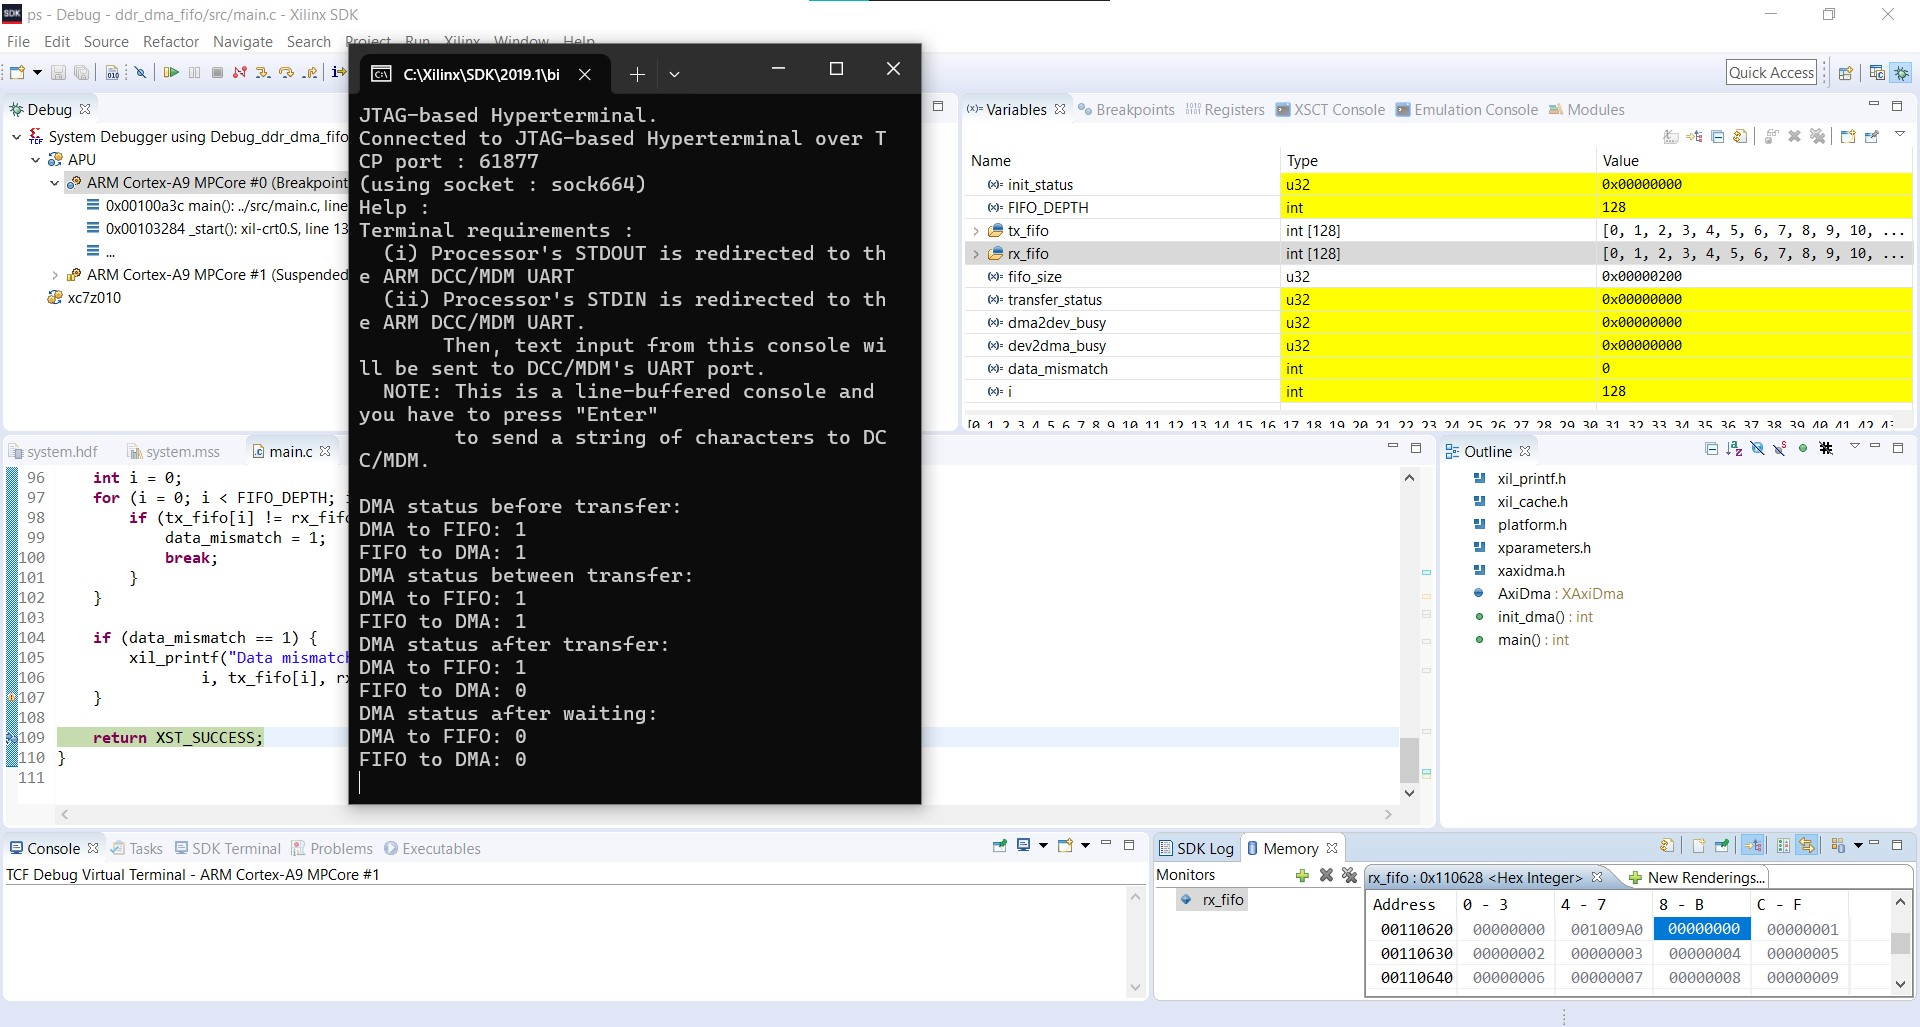
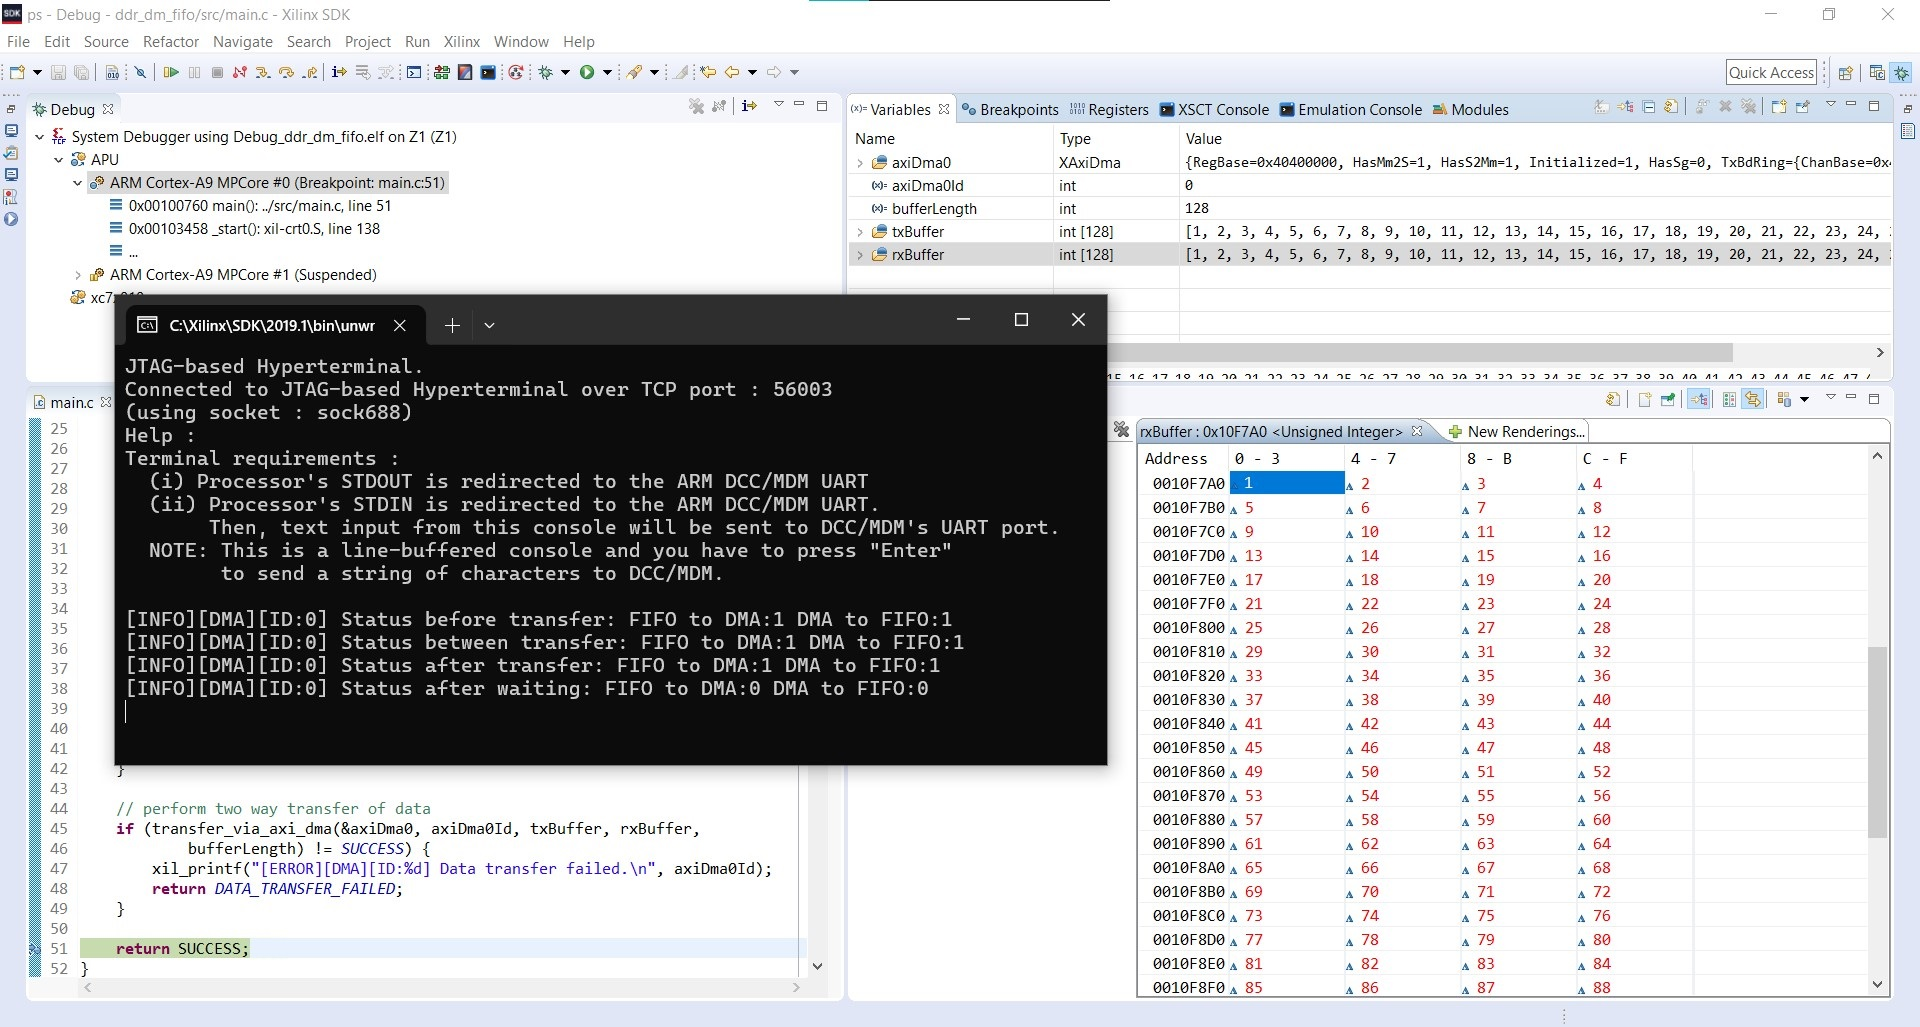
fix lab10 submit transfer request order

diff --git a/lab10_dma/ps/ddr_dm_fifo/src/main.c b/lab10_dma/ps/ddr_dm_fifo/src/main.c
@@ -5,111 +5,160 @@
 #include "xaxidma.h"
 #include "sleep.h"
 
-XAxiDma AxiDma;
+enum AppErrCode {
+	SUCCESS,
+	DEVICE_NOT_FOUND,
+	DMA_CONFIG_INIT_FAILED,
+	DMA_IN_SG_MODE,
+	DMA_INIT_FAILED,
+	DMA_TO_DEVICE_FAILED,
+	DEVICE_TO_DMA_FAILED,
+	DATA_MISMATCH,
+	DATA_TRANSFER_FAILED
+};
 
-int init_dma() {
-	u32 device_id = XPAR_AXI_DMA_0_DEVICE_ID;
-
-	XAxiDma_Config *DmaConfig = XAxiDma_LookupConfig(device_id);
-	if (!DmaConfig) {
-		xil_printf("No config found.\n");
-		return XST_FAILURE;
-	}
-
-	int config_status = XAxiDma_CfgInitialize(&AxiDma, DmaConfig);
-	if (config_status != XST_SUCCESS) {
-		xil_printf("Init failed. Config status: %d.\n", config_status);
-		return XST_FAILURE;
-	}
-
-	if (XAxiDma_HasSg(&AxiDma)) {
-		xil_printf("Configured in SG mode.\n");
-		return XST_FAILURE;
-	}
-
-	return XST_SUCCESS;
-}
+int init_axi_dma(XAxiDma *pAxiDma, int axiDmaId);
+int transfer_via_axi_dma(XAxiDma *pAxiDma, int axiDmaId, int *txBuffer,
+		int *rxBuffer, int bufferLength);
 
 int main() {
-	u32 init_status = init_dma();
-	if (init_status != XST_SUCCESS) {
-		return XST_FAILURE;
+	// initialize dma
+	XAxiDma axiDma0;
+	int axiDma0Id = XPAR_AXI_DMA_0_DEVICE_ID;
+	if (init_axi_dma(&axiDma0, axiDma0Id) != SUCCESS) {
+		xil_printf("[ERROR][DMA][ID:%d] Init failed.\n", axiDma0Id);
+		return DMA_INIT_FAILED;
 	}
 
-	int FIFO_DEPTH = 128;
-	int tx_fifo[FIFO_DEPTH];
-	int rx_fifo[FIFO_DEPTH];
-	u32 fifo_size = sizeof(int) * FIFO_DEPTH;
+	// prepare tx and rx buffers
+	int bufferLength = 128;
+	// buffers in cache
+	int txBuffer[bufferLength];
+	int rxBuffer[bufferLength];
 
-	for (int i = 0; i < FIFO_DEPTH; i++) {
-		tx_fifo[i] = 1 * i + 1;
+	// populate tx buffer
+	for (int i = 0; i < bufferLength; i++) {
+		txBuffer[i] = 1 * i + 1;
 	}
 
-	Xil_DCacheFlushRange((UINTPTR) tx_fifo, fifo_size);
-	Xil_DCacheFlushRange((UINTPTR) rx_fifo, fifo_size);
-
-	xil_printf("DMA status before transfer:\n"
-			"DMA to FIFO: %u\nFIFO to DMA: %u\n",
-			XAxiDma_Busy(&AxiDma, XAXIDMA_DEVICE_TO_DMA),
-			XAxiDma_Busy(&AxiDma, XAXIDMA_DMA_TO_DEVICE));
-
-	u32 transfer_status;
-
-	transfer_status = XAxiDma_SimpleTransfer(&AxiDma, (UINTPTR) tx_fifo,
-			fifo_size, XAXIDMA_DMA_TO_DEVICE);
-	if (transfer_status != XST_SUCCESS) {
-		xil_printf("Transferring data from DDR to FIFO via DMA failed.\n");
+	// perform two way transfer of data
+	if (transfer_via_axi_dma(&axiDma0, axiDma0Id, txBuffer, rxBuffer,
+			bufferLength) != SUCCESS) {
+		xil_printf("[ERROR][DMA][ID:%d] Data transfer failed.\n", axiDma0Id);
+		return DATA_TRANSFER_FAILED;
 	}
 
-	xil_printf("DMA status between transfer:\n"
-			"DMA to FIFO: %u\nFIFO to DMA: %u\n",
-			XAxiDma_Busy(&AxiDma, XAXIDMA_DEVICE_TO_DMA),
-			XAxiDma_Busy(&AxiDma, XAXIDMA_DMA_TO_DEVICE));
+	return SUCCESS;
+}
 
-	transfer_status = XAxiDma_SimpleTransfer(&AxiDma, (UINTPTR) rx_fifo,
-			fifo_size, XAXIDMA_DEVICE_TO_DMA);
-	if (transfer_status != XST_SUCCESS) {
-		xil_printf("Transferring data from FIFO to DDR via DMA failed.\n");
+int init_axi_dma(XAxiDma *pAxiDma, int axiDmaId) {
+	// get dma config
+	XAxiDma_Config *pDmaConfig = XAxiDma_LookupConfig(axiDmaId);
+	if (pDmaConfig == NULL) {
+		xil_printf("[ERROR][DMA][ID:%d] Device not found.\n", axiDmaId);
+		return DEVICE_NOT_FOUND;
 	}
 
-	xil_printf("DMA status after transfer:\n"
-			"DMA to FIFO: %u\nFIFO to DMA: %u\n",
-			XAxiDma_Busy(&AxiDma, XAXIDMA_DEVICE_TO_DMA),
-			XAxiDma_Busy(&AxiDma, XAXIDMA_DMA_TO_DEVICE));
+	// initialize dma config
+	u32 configStatus = XAxiDma_CfgInitialize(pAxiDma, pDmaConfig);
+	if (configStatus != XST_SUCCESS) {
+		xil_printf("[ERROR][DMA][ID:%d] Config init failed with status: %u\n",
+				axiDmaId, configStatus);
+		return DMA_CONFIG_INIT_FAILED;
+	}
 
-	u32 dma2dev_busy = XAxiDma_Busy(&AxiDma, XAXIDMA_DEVICE_TO_DMA);
-	u32 dev2dma_busy = XAxiDma_Busy(&AxiDma, XAXIDMA_DMA_TO_DEVICE);
+	// check if it is in scatter gather mode
+	u32 dmaInSgMode = XAxiDma_HasSg(pAxiDma);
+	if (dmaInSgMode) {
+		xil_printf("[ERROR][DMA][ID:%d] In SG Mode.\n", axiDmaId);
+		return DMA_IN_SG_MODE;
+	}
 
-	while (dma2dev_busy || dev2dma_busy) {
-		dma2dev_busy = XAxiDma_Busy(&AxiDma, XAXIDMA_DEVICE_TO_DMA);
-		dev2dma_busy = XAxiDma_Busy(&AxiDma, XAXIDMA_DMA_TO_DEVICE);
-		xil_printf("DMA status while waiting:\n"
-				"DMA to FIFO: %u\nFIFO to DMA: %u\n", dma2dev_busy,
-				dev2dma_busy);
+	return SUCCESS;
+}
+
+int transfer_via_axi_dma(XAxiDma *pAxiDma, int axiDmaId, int *txBuffer,
+		int *rxBuffer, int bufferLength) {
+	u32 bufferSize = sizeof(int) * bufferLength;
+
+	// flush buffers data from cache to ddr
+	Xil_DCacheFlushRange((INTPTR) txBuffer, bufferSize);
+	Xil_DCacheFlushRange((INTPTR) rxBuffer, bufferSize);
+
+	xil_printf("[INFO][DMA][ID:%d] Status before transfer: "
+			"FIFO to DMA:%u DMA to FIFO:%u\n", axiDmaId,
+			XAxiDma_Busy(pAxiDma, XAXIDMA_DEVICE_TO_DMA),
+			XAxiDma_Busy(pAxiDma, XAXIDMA_DMA_TO_DEVICE));
+
+	u32 transferSubmitStatus;
+
+	// submit transfer request from device to dma
+	transferSubmitStatus = XAxiDma_SimpleTransfer(pAxiDma, (UINTPTR) rxBuffer,
+			bufferSize, XAXIDMA_DEVICE_TO_DMA);
+	if (transferSubmitStatus != XST_SUCCESS) {
+		xil_printf("[ERROR][DMA][ID:%d] Transfer submission from "
+				"FIFO to DMA failed.\n", axiDmaId);
+		return DEVICE_TO_DMA_FAILED;
+	}
+
+	xil_printf("[INFO][DMA][ID:%d] Status between transfer: "
+			"FIFO to DMA:%u DMA to FIFO:%u\n", axiDmaId,
+			XAxiDma_Busy(pAxiDma, XAXIDMA_DEVICE_TO_DMA),
+			XAxiDma_Busy(pAxiDma, XAXIDMA_DMA_TO_DEVICE));
+
+	// submit transfer status from dma to device
+	transferSubmitStatus = XAxiDma_SimpleTransfer(pAxiDma, (UINTPTR) txBuffer,
+			bufferSize, XAXIDMA_DMA_TO_DEVICE);
+	if (transferSubmitStatus != XST_SUCCESS) {
+		xil_printf("[ERROR][DMA][ID:%d] Transfer submission from "
+				"DMA to FIFO failed.\n", axiDmaId);
+		return DMA_TO_DEVICE_FAILED;
+	}
+
+	xil_printf("[INFO][DMA][ID:%d] Status after transfer: "
+			"FIFO to DMA:%u DMA to FIFO:%u\n", axiDmaId,
+			XAxiDma_Busy(pAxiDma, XAXIDMA_DEVICE_TO_DMA),
+			XAxiDma_Busy(pAxiDma, XAXIDMA_DMA_TO_DEVICE));
+
+	u32 devToDmaBusy = XAxiDma_Busy(pAxiDma, XAXIDMA_DEVICE_TO_DMA);
+	u32 dmaToDevBusy = XAxiDma_Busy(pAxiDma, XAXIDMA_DMA_TO_DEVICE);
+
+	// wait till transfer is happening
+	while (dmaToDevBusy || devToDmaBusy) {
+		devToDmaBusy = XAxiDma_Busy(pAxiDma, XAXIDMA_DEVICE_TO_DMA);
+		dmaToDevBusy = XAxiDma_Busy(pAxiDma, XAXIDMA_DMA_TO_DEVICE);
+		xil_printf("[INFO][DMA][ID:%d] Status while waiting: "
+				"FIFO to DMA:%u DMA to FIFO:%u\n", axiDmaId, devToDmaBusy,
+				dmaToDevBusy);
 		usleep(1U);
 	}
 
-	xil_printf("DMA status after waiting:\n"
-			"DMA to FIFO: %u\nFIFO to DMA: %u\n",
-			XAxiDma_Busy(&AxiDma, XAXIDMA_DEVICE_TO_DMA),
-			XAxiDma_Busy(&AxiDma, XAXIDMA_DMA_TO_DEVICE));
+	xil_printf("[INFO][DMA][ID:%d] Status after waiting: "
+			"FIFO to DMA:%u DMA to FIFO:%u\n", axiDmaId,
+			XAxiDma_Busy(pAxiDma, XAXIDMA_DEVICE_TO_DMA),
+			XAxiDma_Busy(pAxiDma, XAXIDMA_DMA_TO_DEVICE));
 
-	Xil_DCacheInvalidateRange((UINTPTR) rx_fifo, fifo_size);
+	// invalidate rx buffer data from cache
+	Xil_DCacheInvalidateRange((INTPTR) rxBuffer, bufferSize);
 
-	int data_mismatch = 0;
+	// check for first data mismatch
+	int dataMismatch = 0;
 
 	int i = 0;
-	for (i = 0; i < FIFO_DEPTH; i++) {
-		if (tx_fifo[i] != rx_fifo[i]) {
-			data_mismatch = 1;
+	for (i = 0; i < bufferLength; i++) {
+		if (txBuffer[i] != rxBuffer[i]) {
+			dataMismatch = 1;
 			break;
 		}
 	}
 
-	if (data_mismatch == 1) {
-		xil_printf("Data mismatch found at index: %d. Tx data: %d. Rx Data: %d",
-				i, tx_fifo[i], rx_fifo[i]);
+	if (dataMismatch == 1) {
+		xil_printf("[ERROR][DMA][ID:%d] First data mismatch found at index:%d. "
+				"Tx data:%d. Rx Data:%d", axiDmaId, i, txBuffer[i],
+				rxBuffer[i]);
+		return DATA_MISMATCH;
 	}
 
-	return XST_SUCCESS;
+	return SUCCESS;
 }
+

diff --git a/lab10_dma/README.md b/lab10_dma/README.md
@@ -3,7 +3,3 @@
 ## Data transfer
 
 ![](./images/transfer.jpg)
-
-## Data transfer (Problem)
-
-![](./images/problem.jpg)
